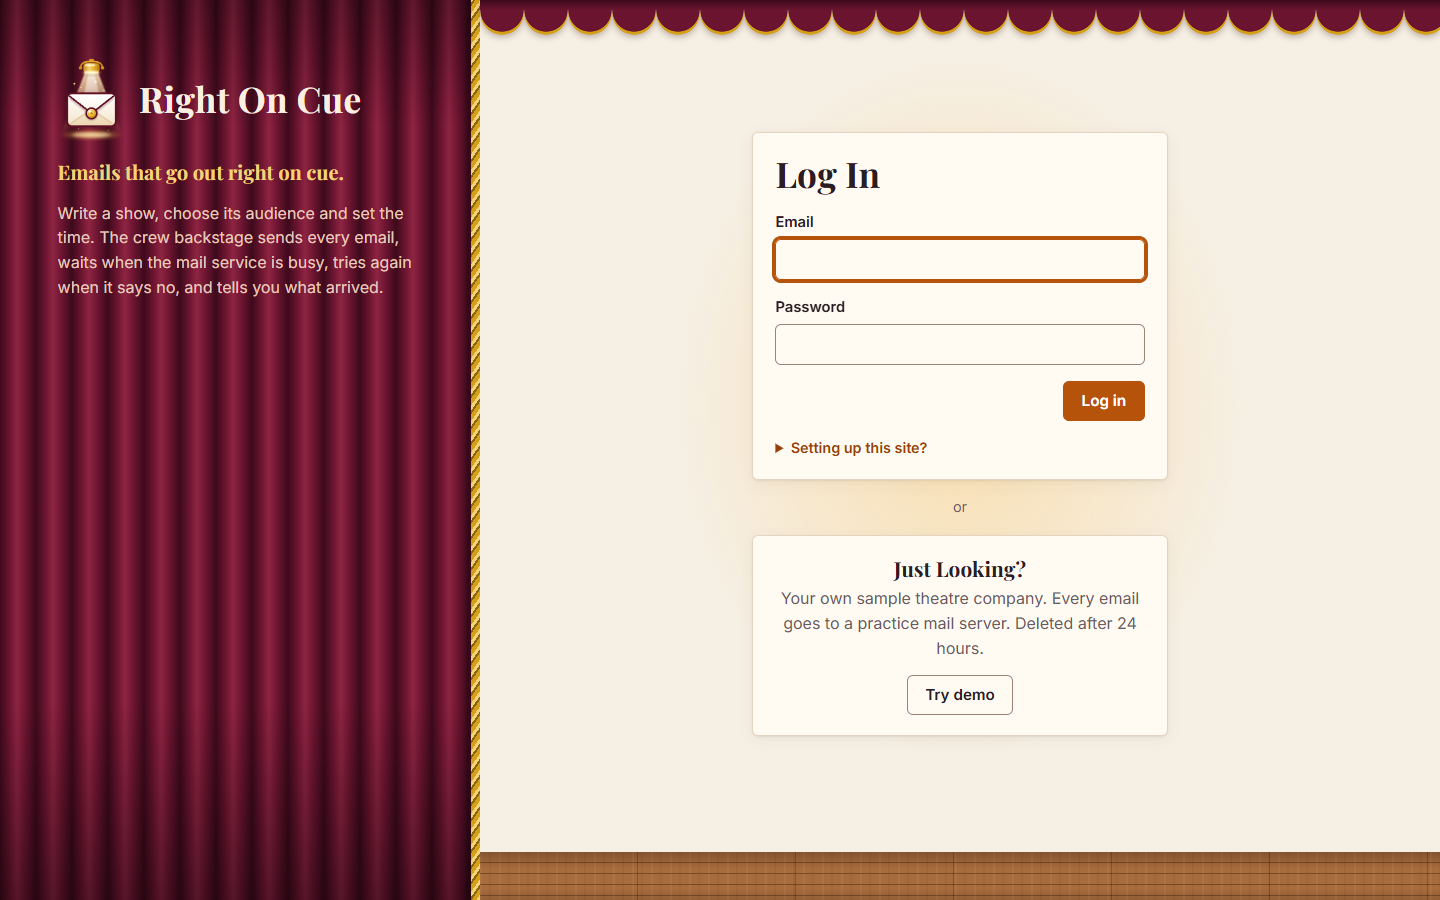
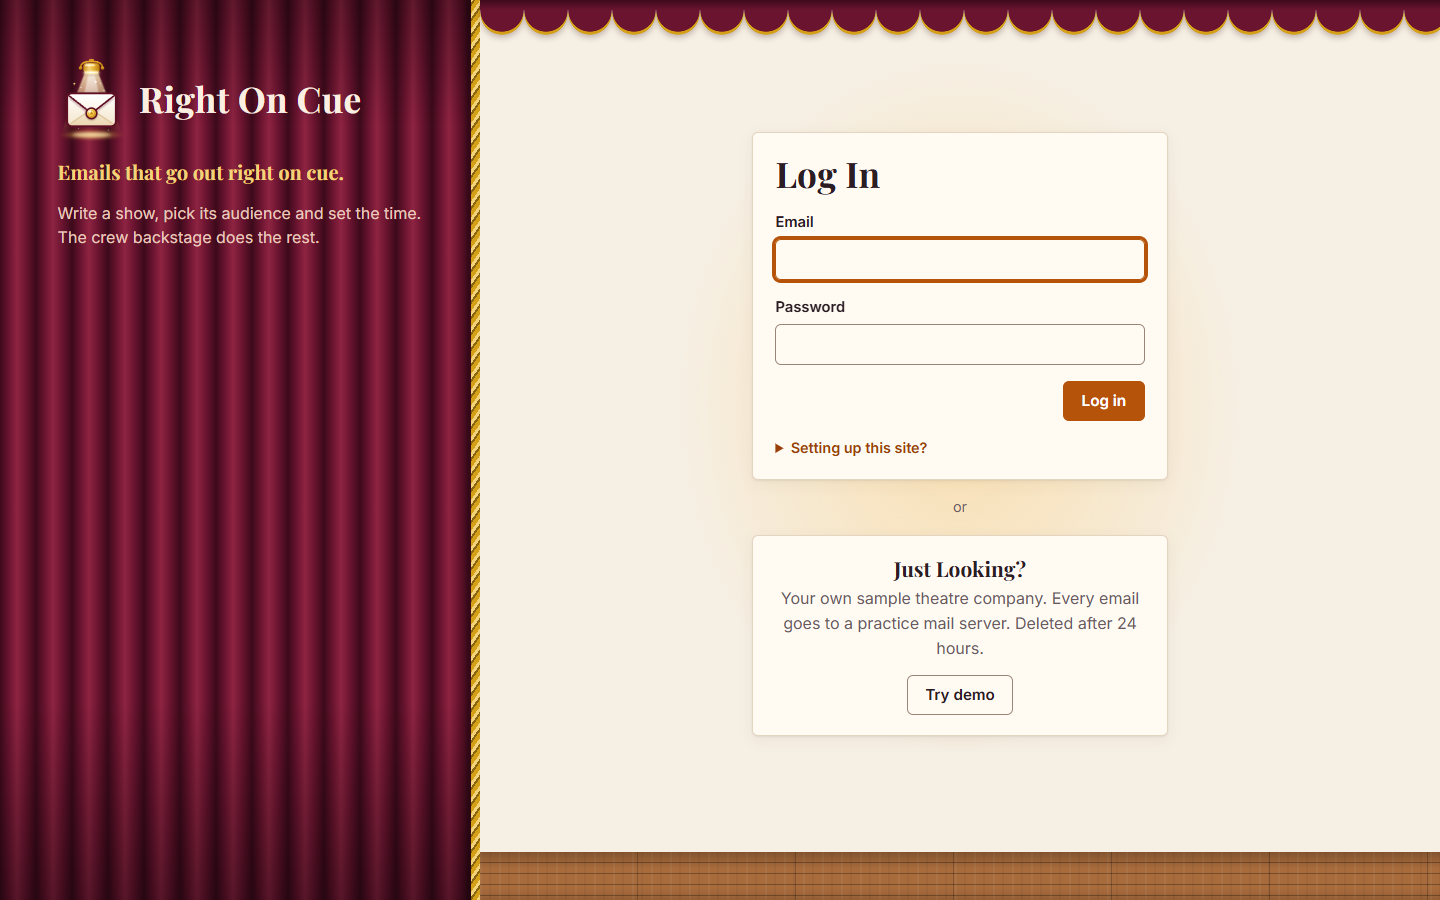
Shorten the login page's welcome text
"Write a show, choose its audience and set the time. The crew backstage
sends every email, waits when the mail service is busy, tries again when
it says no, and tells you what arrived." is now "Write a show, pick its
audience and set the time. The crew backstage does the rest."

README login picture retaken.

Changed region(s): [[0.0312, 0.2178, 0.2812, 0.3422]]

diff --git a/oncue/templates/login.html b/oncue/templates/login.html
@@ -8,7 +8,7 @@
     <section class="welcome-panel velvet">
       <a class="logo" href="{{ url_for('auth.login') }}">{{ logo(84) }} {{ APP_NAME }}</a>
       <p class="welcome-line">{{ TAGLINE }}</p>
-      <p class="welcome-note">Write a show, choose its audience and set the time. The crew backstage sends every email, waits when the mail service is busy, tries again when it says no, and tells you what arrived.</p>
+      <p class="welcome-note">Write a show, pick its audience and set the time. The crew backstage does the rest.</p>
     </section>
     <section class="welcome-stage">
       <div class="valance" aria-hidden="true"></div>
